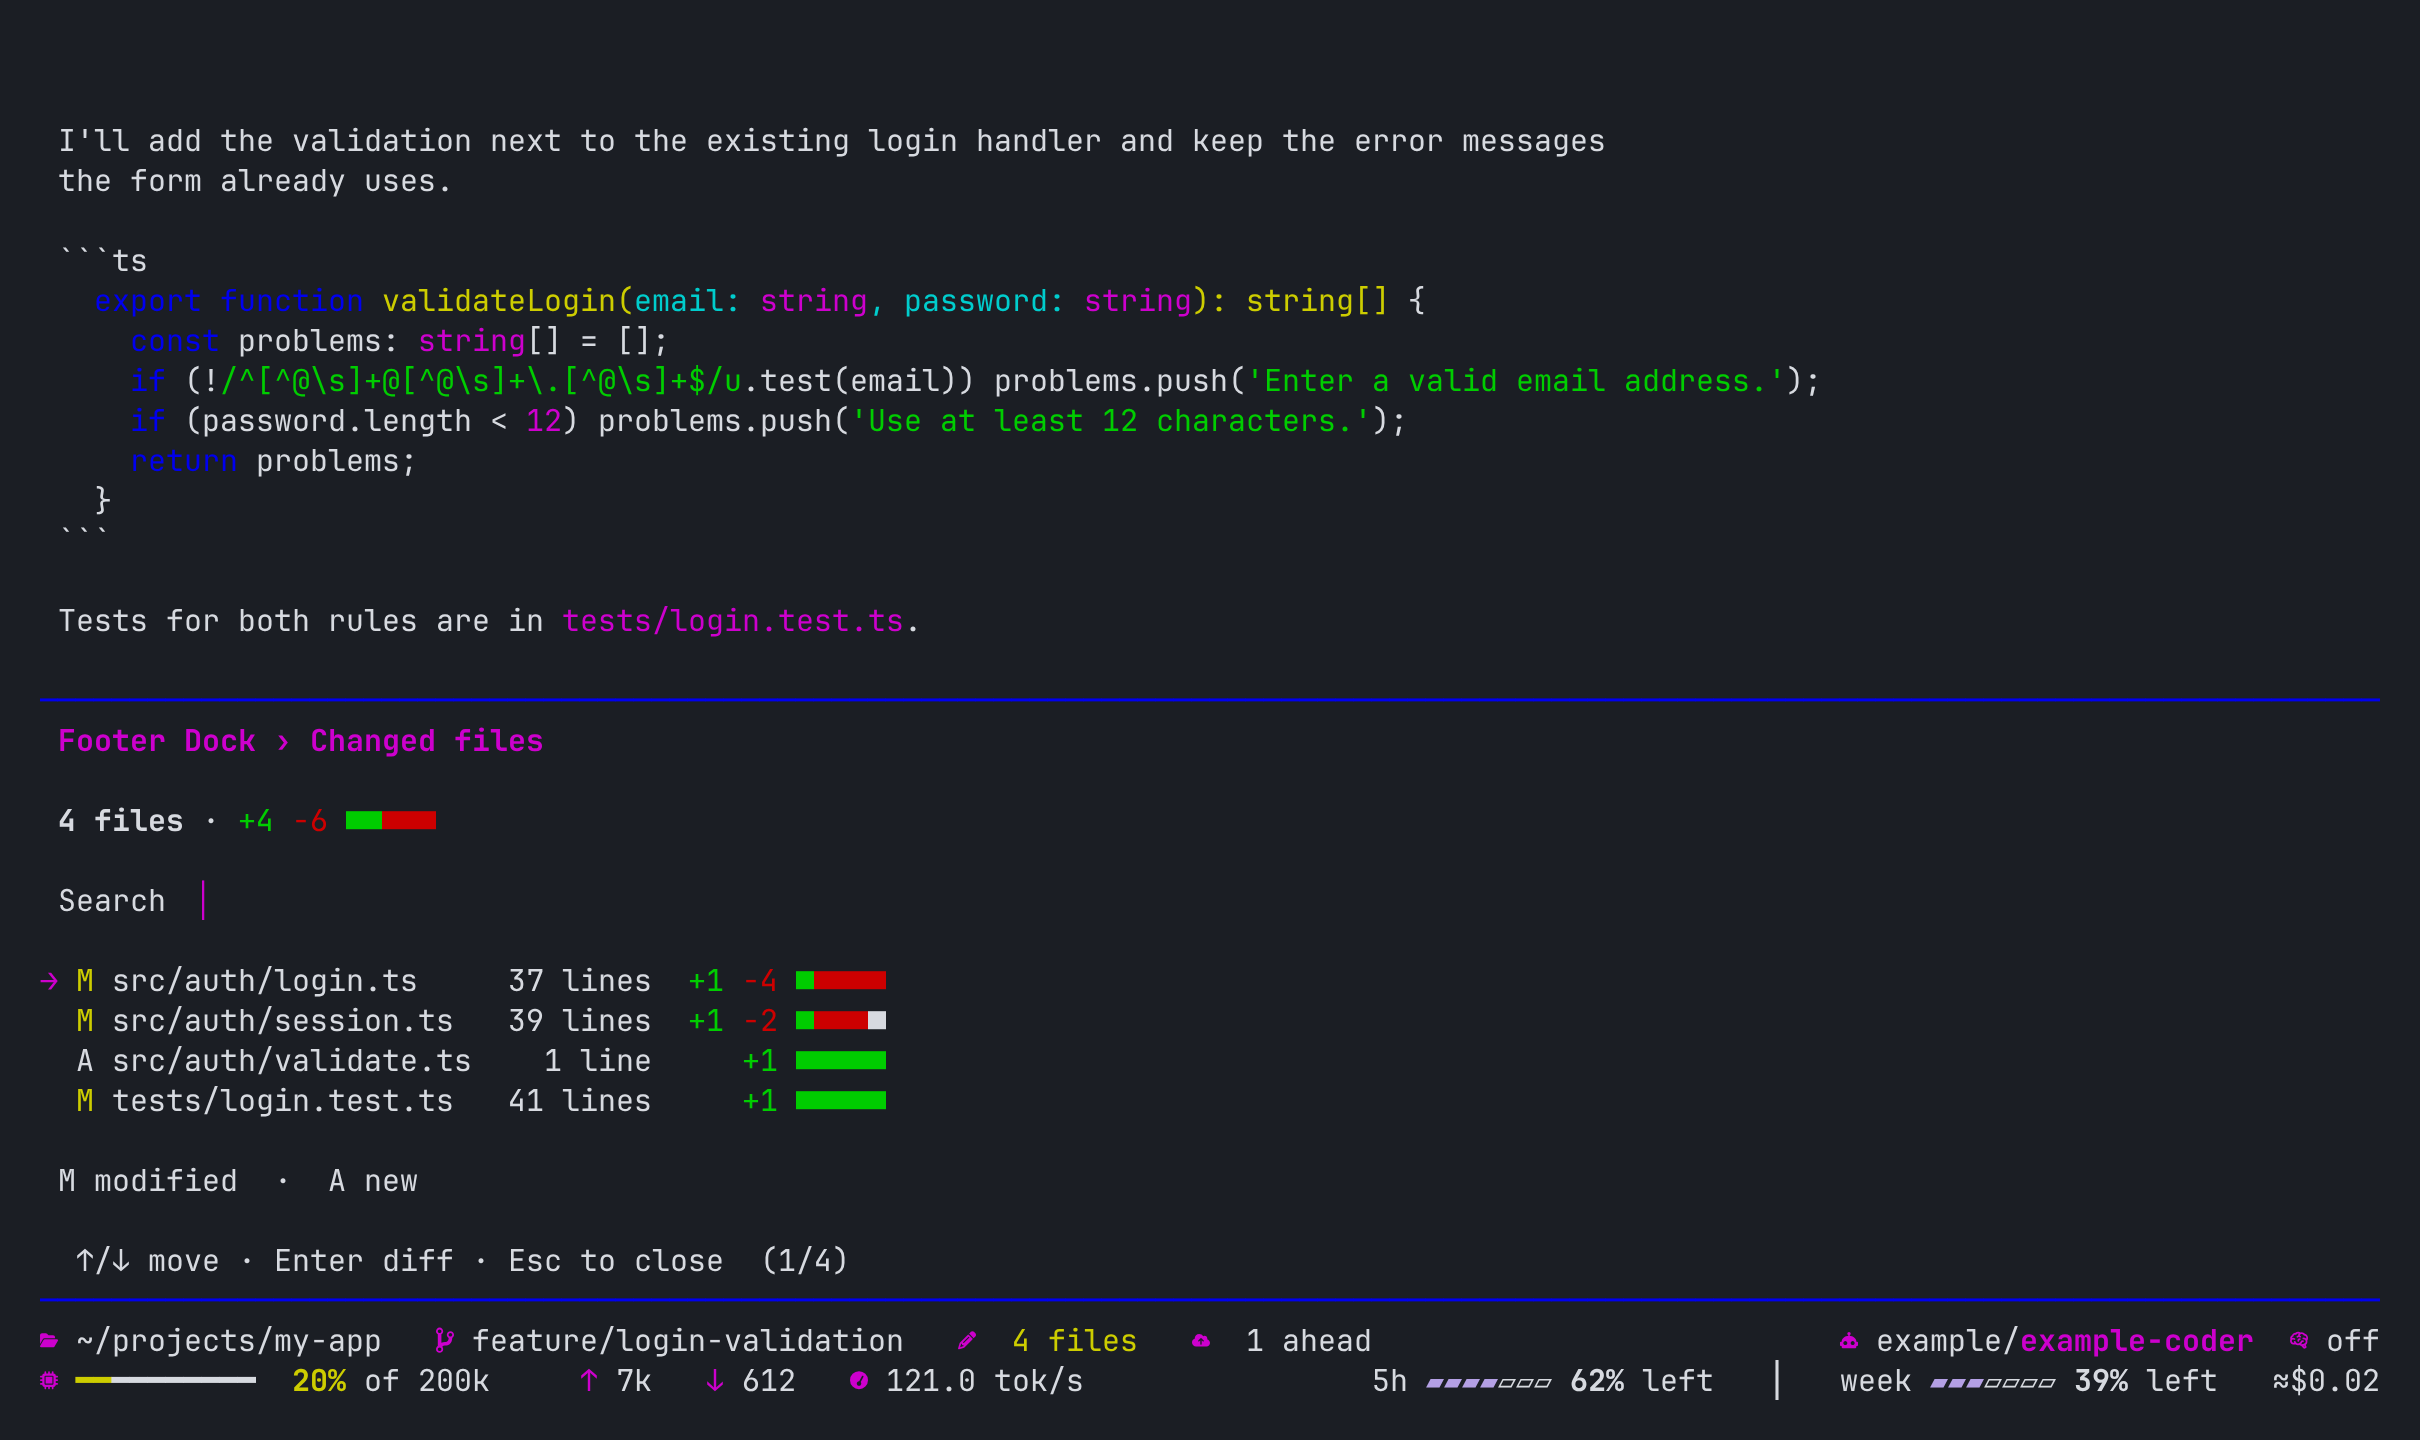
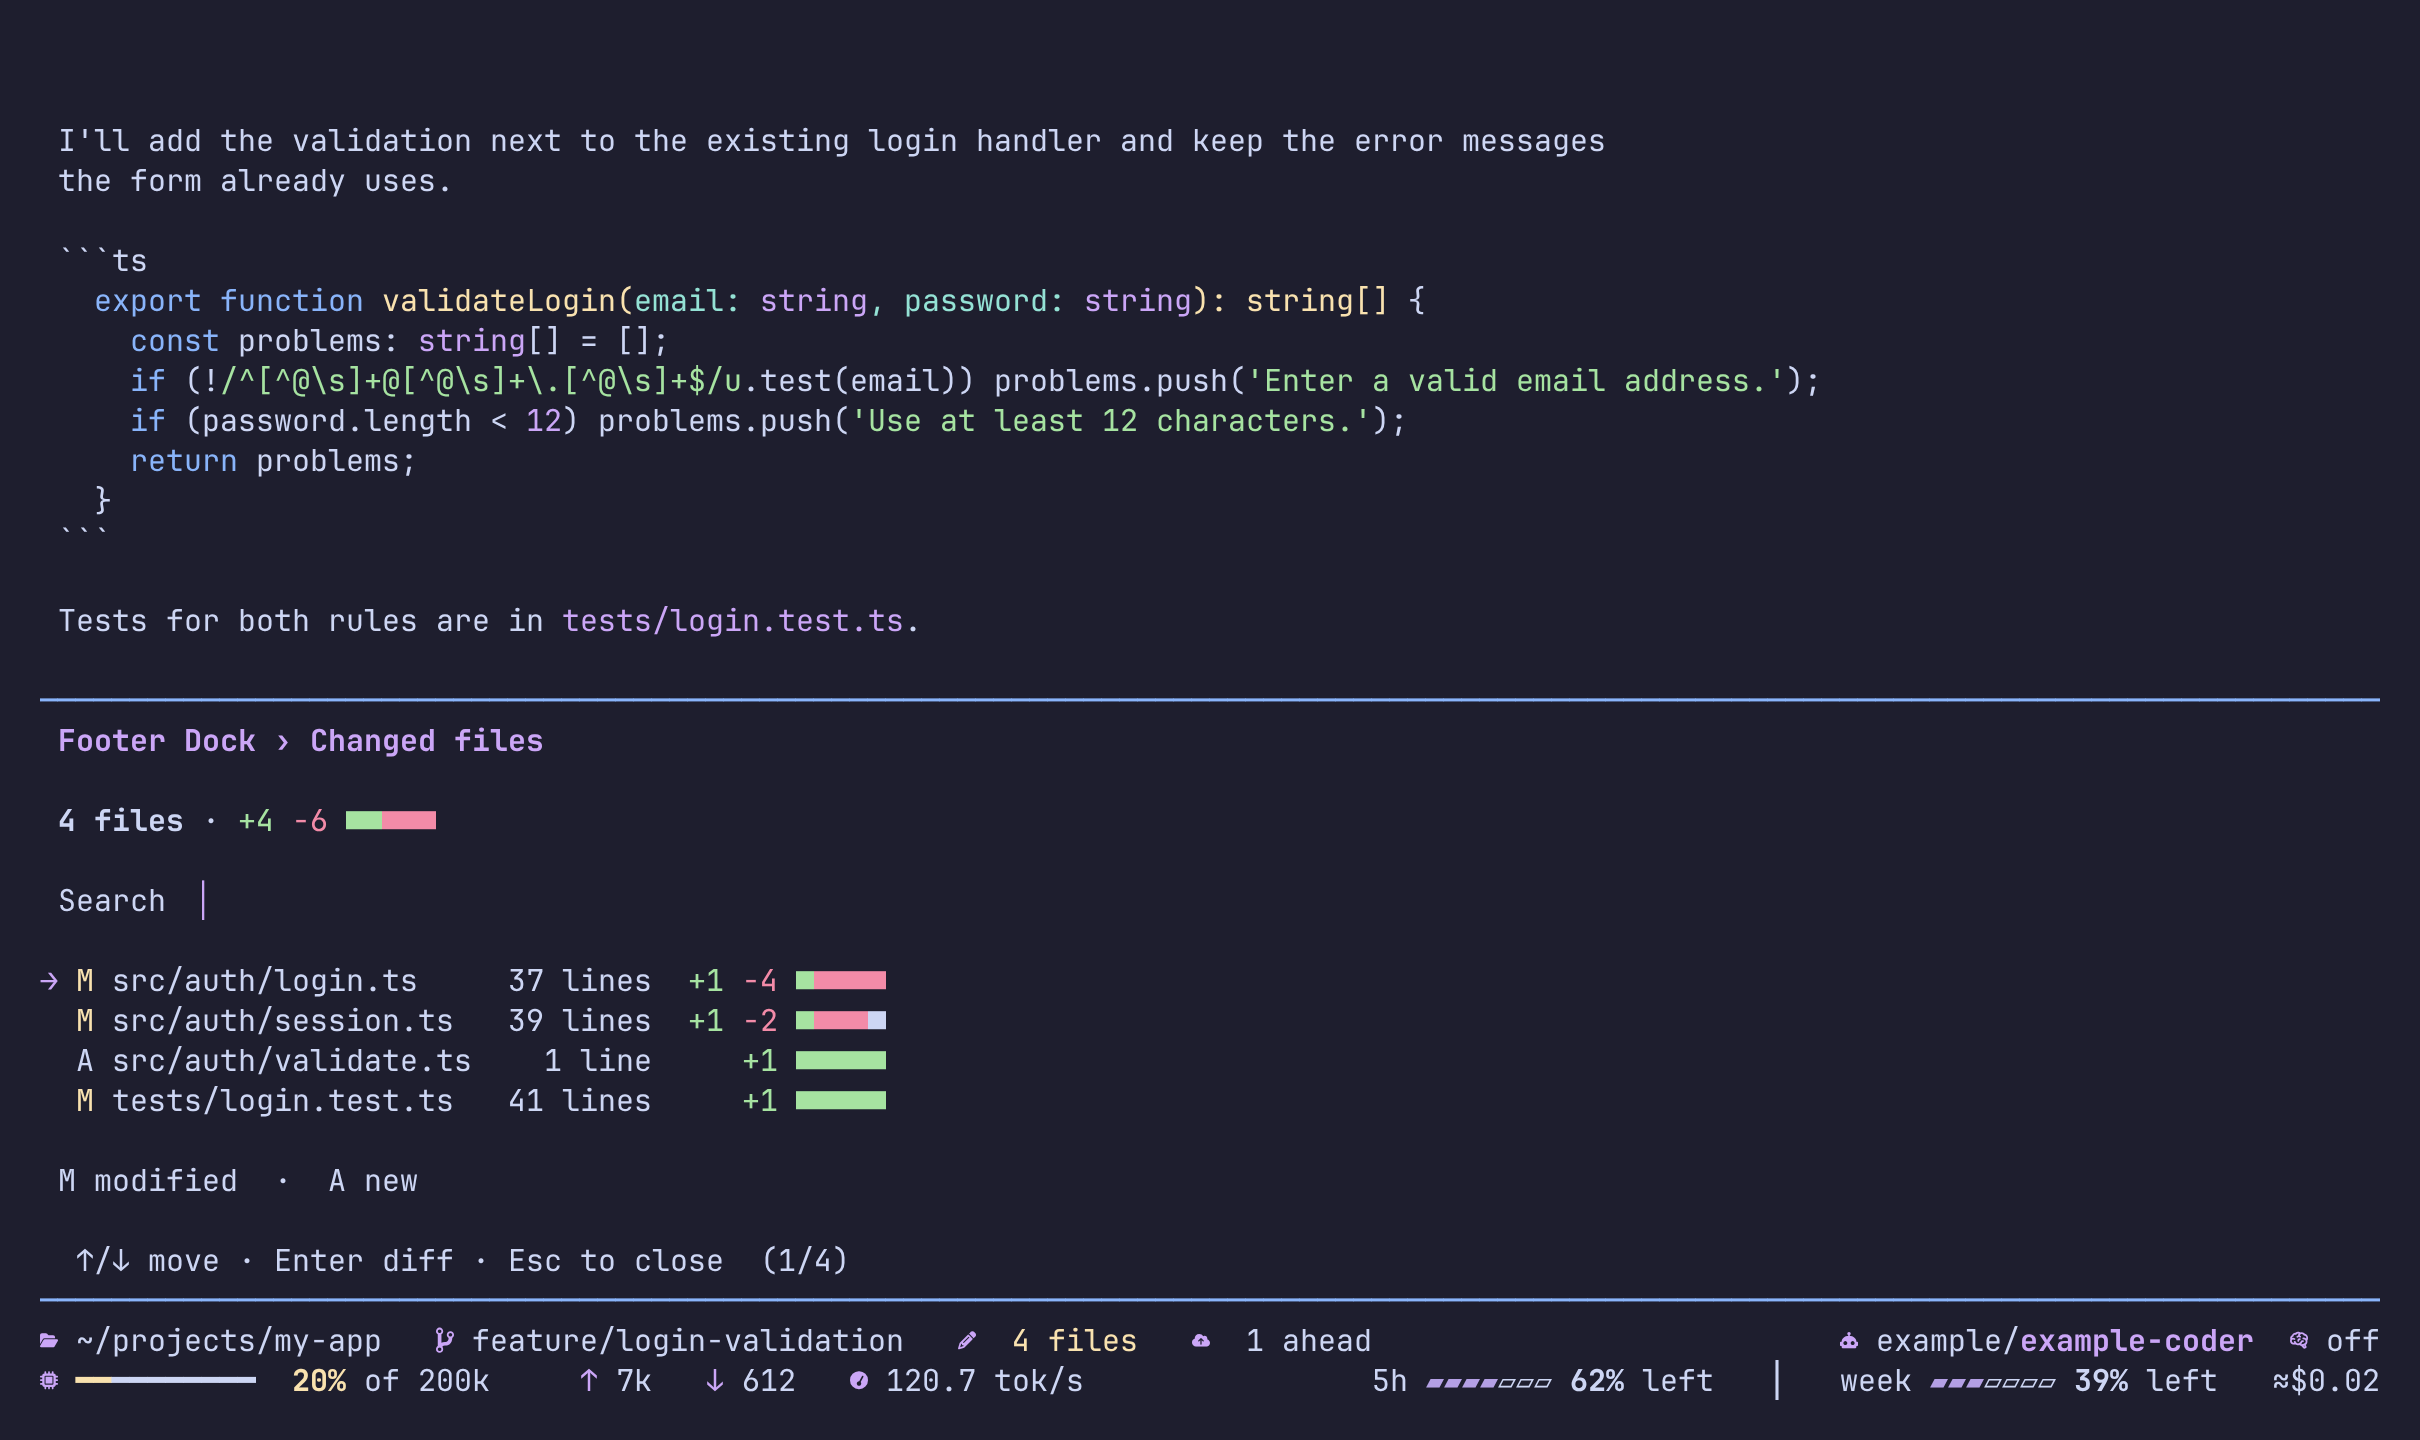
Pictures taken from the installed package with a readable lavender palette

diff --git a/scripts/capture/terminal.py b/scripts/capture/terminal.py
@@ -2,15 +2,23 @@
 import fcntl, os, pty, select, struct, subprocess, termios, time, html
 import pyte
 
-# A dark palette for the 16 ANSI colours (the programme may use truecolour instead).
+# A soft dark palette with lavender accents (the Catppuccin Mocha colours) for the 16 ANSI colours.
 ANSI = {
-    'black': '#1e2127', 'red': '#e06c75', 'green': '#98c379', 'brown': '#e5c07b',
-    'blue': '#61afef', 'magenta': '#c678dd', 'cyan': '#56b6c2', 'white': '#abb2bf',
-    'brightblack': '#5c6370', 'brightred': '#e06c75', 'brightgreen': '#98c379',
-    'brightbrown': '#e5c07b', 'brightyellow': '#e5c07b', 'brightblue': '#61afef',
-    'brightmagenta': '#c678dd', 'brightcyan': '#56b6c2', 'brightwhite': '#ffffff',
+    'black': '#45475a', 'red': '#f38ba8', 'green': '#a6e3a1', 'brown': '#f9e2af',
+    'blue': '#89b4fa', 'magenta': '#cba6f7', 'cyan': '#94e2d5', 'white': '#bac2de',
+    'brightblack': '#6c7086', 'brightred': '#f38ba8', 'brightgreen': '#a6e3a1',
+    'brightbrown': '#f9e2af', 'brightyellow': '#f9e2af', 'brightblue': '#b4befe',
+    'brightmagenta': '#f5c2e7', 'brightcyan': '#94e2d5', 'brightwhite': '#cdd6f4',
 }
-BACKGROUND, FOREGROUND = '#1b1e24', '#d7dae0'
+# pyte turns the first 16 colours of the 256-colour table into fixed xterm values; a real terminal
+# would show its own palette there, so map them back to the names above.
+XTERM16 = {
+    '000000': 'black', 'cd0000': 'red', '00cd00': 'green', 'cdcd00': 'brown', '0000ee': 'blue',
+    'cd00cd': 'magenta', '00cdcd': 'cyan', 'e5e5e5': 'white', '7f7f7f': 'brightblack',
+    'ff0000': 'brightred', '00ff00': 'brightgreen', 'ffff00': 'brightbrown', '5c5cff': 'brightblue',
+    'ff00ff': 'brightmagenta', '00ffff': 'brightcyan', 'ffffff': 'brightwhite',
+}
+BACKGROUND, FOREGROUND = '#1e1e2e', '#cdd6f4'
 CELL_W, CELL_H, FONT = 9, 20, 15
 
 
@@ -99,6 +107,8 @@ class Terminal:
         def colour(value, default):
             if value == 'default':
                 return default
+            if value in XTERM16:
+                value = XTERM16[value]
             if value in ANSI:
                 return ANSI[value]
             return '#' + value if len(value) == 6 else default

diff --git a/scripts/capture/capture.py b/scripts/capture/capture.py
@@ -15,8 +15,7 @@ ICON = {'changed': '\uf040', 'robot': '\U000f06a9'}
 
 
 def start(cols=130, rows=34):
-    return Terminal([pi, '-e', f'{repo}/src/index.ts', '--no-extensions', '--no-skills', '--no-prompt-templates',
-                     '--no-context-files', '--model', 'example/example-coder', '--no-session'],
+    return Terminal([pi, '--no-context-files', '--model', 'example/example-coder', '--no-session'],
                     f'{work}/home/projects/my-app', env, cols, rows)
 
 

diff --git a/CONTRIBUTING.md b/CONTRIBUTING.md
@@ -31,7 +31,7 @@ Prettier (format), ESLint (types-aware), `tsc`, dependency-cruiser (architecture
 
 ## Pictures
 
-The pictures in the README are real: `npm run screenshots` runs Pi in a pseudo-terminal against a local stand-in provider and a throw-away project (your own settings and accounts are never touched), reads the screen and draws it with a Nerd Font in headless Chromium. It needs `nix develop` (for Python and `pyte`), a Chromium or Chrome on the path, and the JetBrainsMono Nerd Font installed; pass picture names to redo only some (`npm run screenshots -- footer-wide diff`). If you change what a screen looks like, run it and commit the new pictures.
+The pictures in the README are real: `npm run screenshots` packs the package and installs it into a throw-away Pi folder the way a user would, runs Pi in a pseudo-terminal against a local stand-in provider and a throw-away project (your own settings and accounts are never touched), reads the screen and draws it with a Nerd Font and a soft lavender palette (the 16 terminal colours are mapped to it) in headless Chromium. It needs `nix develop` (for Python and `pyte`), a Chromium or Chrome on the path, and the JetBrainsMono Nerd Font installed; pass picture names to redo only some (`npm run screenshots -- footer-wide diff`). If you change what a screen looks like, run it and commit the new pictures.
 
 ## Licence
 
